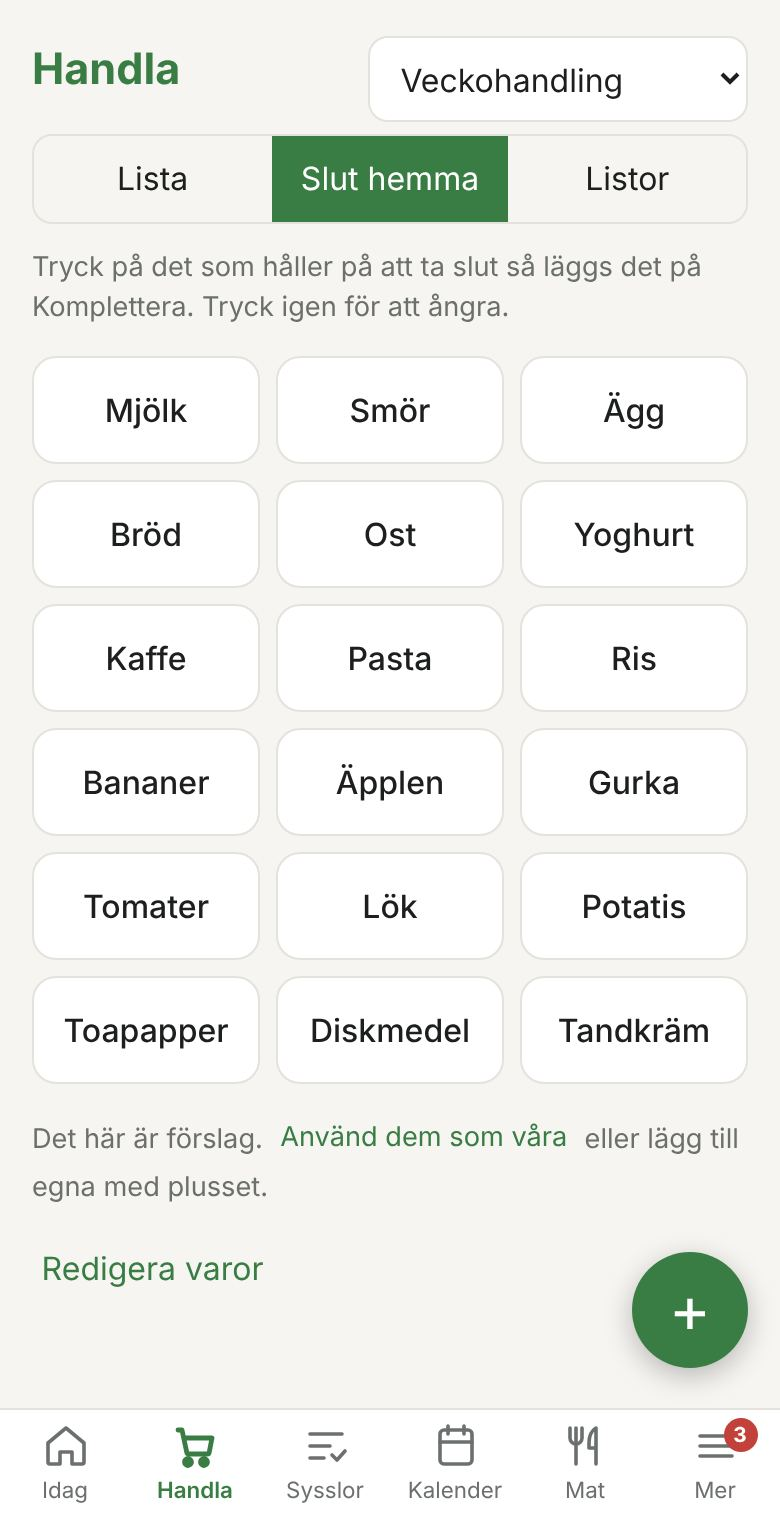
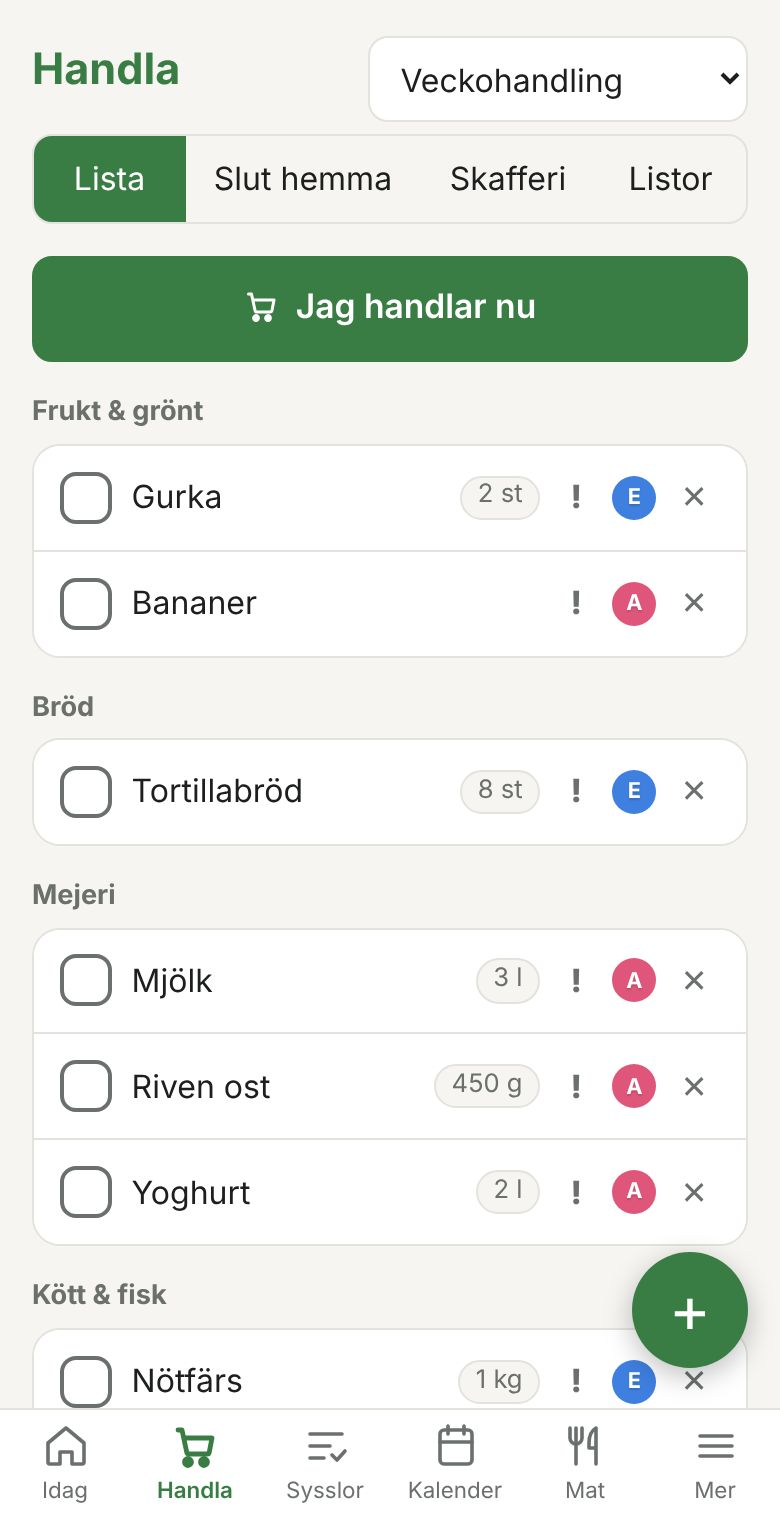
Startsidan: middag och recept, medicin med doser, mängder på inköpslistan
Två nya avsnitt med nya bilder (recept och medicin), nya bilder på Idag och Handla,
och texterna uppdaterade efter det nya.

Claude-Session: https://claude.ai/code/session_01StYdwwtqWBC1VSAcMQpxCy

diff --git a/src/components/Landing.jsx b/src/components/Landing.jsx
@@ -2,9 +2,11 @@ import { useState } from 'react'
 import Auth from './Auth'
 
 const FEATURES = [
-  { img: 'idag', title: 'Hela dagen på ett ställe', text: 'Vad som händer idag, kvällens middag, sysslor och lappar till varandra. Tryck på en person för att bara se deras saker.' },
+  { img: 'idag', title: 'Hela dagen på ett ställe', text: 'Vad som händer idag, kvällens middag med recept, medicinen som ska tas, sysslor och lappar till varandra. Tryck på en person för att bara se deras saker.' },
   { img: 'kalender', title: 'Familjens kalender', text: 'Allas händelser i samma vy, med upprepning och påminnelser. Importera schemat från jobbet eller skolan som .ics-fil.' },
-  { img: 'handla', title: 'Handla tillsammans', text: 'Gemensamma inköpslistor som uppdateras direkt. Tryck på det som tagit slut hemma så hamnar det på listan.' },
+  { img: 'handla', title: 'Handla tillsammans', text: 'Gemensamma inköpslistor som uppdateras direkt. Skriv "2 gurkor" eller "mjölk 1 l" så kommer mängden med, och lägger någon till samma vara räknas det ihop. Tryck på det som tagit slut hemma så hamnar det på listan.' },
+  { img: 'recept', title: 'Middag och recept', text: 'Planera veckans middagar eller låt appen föreslå. Klistra in en länk från ICA, Arla eller Köket så hämtas varor och gör så här. Ändra antal portioner så räknas mängderna om, och ett tryck lägger allt till veckans middagar på inköpslistan.' },
+  { img: 'medicin', title: 'Medicin med doser', text: 'Tabletter, flytande medicin, nässpray och inhalator, med dos och klockslag. Bocka av på Idag så ser alla att den är tagen, och appen säger till i god tid innan förpackningen tar slut.' },
   { img: 'barnen', title: 'Barnens egen sida', text: 'Morgon- och kvällsrutiner, sysslor som ger stjärnor och veckopeng, och ett sparmål att längta efter.' },
   { img: 'meddelanden', title: 'Meddelanden och lappar', text: 'Skriv till familjen, eller till barnets andra hem om ni har delad vårdnad. Sätt upp ett hjärta på kylskåpet.' },
   { img: 'bilen', title: 'Bilen', text: 'Kostnader, skatt och kommande utgifter, plus att göra för tvätt, service, däckbyte och besiktning. Delar ni bil mellan två hem räknar appen ut vem som ska swisha vem.' }
@@ -17,12 +19,12 @@ const COPARENT = [
   ['🎒', 'Packlista', 'En gemensam lista över vad som ska med vid bytet. Kvällen före får båda en påminnelse om vad som är kvar att packa.'],
   ['📅', 'Barnets kalender', 'Barnets aktiviteter, skola och tider syns i båda hemmen, oavsett vem som lagt in dem.'],
   ['🌡', 'VAB och sjukdagar', 'Se vem som vabbar och när. Ni får en påminnelse om att anmäla dagarna till Försäkringskassan.'],
-  ['💊', 'Medicin', 'Barnets mediciner och doser med klockslag, så båda vet vad som har getts och när flaskan tar slut.'],
+  ['💊', 'Medicin', 'Barnets mediciner med doser och klockslag, även nässpray och inhalator. Båda hemmen ser vad som har getts idag och när förpackningen tar slut.'],
   ['💬', 'Meddelanden mellan hemmen', 'En egen kanal mellan hushållen, skild från familjens interna chatt.'],
   ['🚗', 'Gemensam bil', 'Delar ni bil ser båda kostnader, skatt, besiktning och bokade tider. Appen räknar ut vem som ska swisha vem.'],
   ['🧹', 'Delade sysslor', 'Sysslor som gäller båda hemmen, t.ex. att boka tandläkare eller tvätta den gemensamma bilen.']
 ]
-const MORE = ['🚸 Vem lämnar och hämtar på skolan, med varning om det krockar med jobbet', '🍝 Veckomeny och middagstips, och era egna rätter', '⭐ Prio-varor på inköpslistan', '🥛 Skafferi med bäst-före', '💰 Räkningar som delas efter inkomst', '📺 Abonnemang med påminnelse om uppsägning', '⏱ Övertidsräknare enligt kollektivavtal', '🎂 Födelsedagar och årliga påminnelser', '🔔 Notiser på mobilen varje morgon', '🧭 Välj själv vilka sidor du vill se', '📊 Statistik över sysslor och sjukdagar']
+const MORE = ['🚸 Vem lämnar och hämtar på skolan, med varning om det krockar med jobbet', '⭐ Prio-varor på inköpslistan', '🥛 Skafferi med bäst-före', '💰 Räkningar som delas efter inkomst', '📺 Abonnemang med påminnelse om uppsägning', '⏱ Övertidsräknare enligt kollektivavtal', '🎂 Födelsedagar och årliga påminnelser', '🔔 Notiser på mobilen varje morgon', '🧭 Välj själv vilka sidor du vill se', '📊 Statistik över sysslor och sjukdagar']
 
 // Startsida för den som inte är inloggad: vad appen är, med bilder
 export default function Landing() {
@@ -37,7 +39,7 @@ export default function Landing() {
 
       <section className="ld-hero">
         <h1>Familjens vardag, samlad i en app</h1>
-        <p>Kalender, inköpslista, sysslor, middagar och meddelanden som hela familjen delar, och som uppdateras direkt i allas telefoner.</p>
+        <p>Kalender, inköpslista, sysslor, middagar med recept, medicin och meddelanden som hela familjen delar, och som uppdateras direkt i allas telefoner.</p>
         <div className="row wrap ld-cta">
           <a className="link ld-co-link" href="#delad-vardnad">Delad vårdnad? Så fungerar det för två hem ↓</a>
           <button className="primary big" onClick={() => setAuth('signup')}>Kom igång gratis</button>
